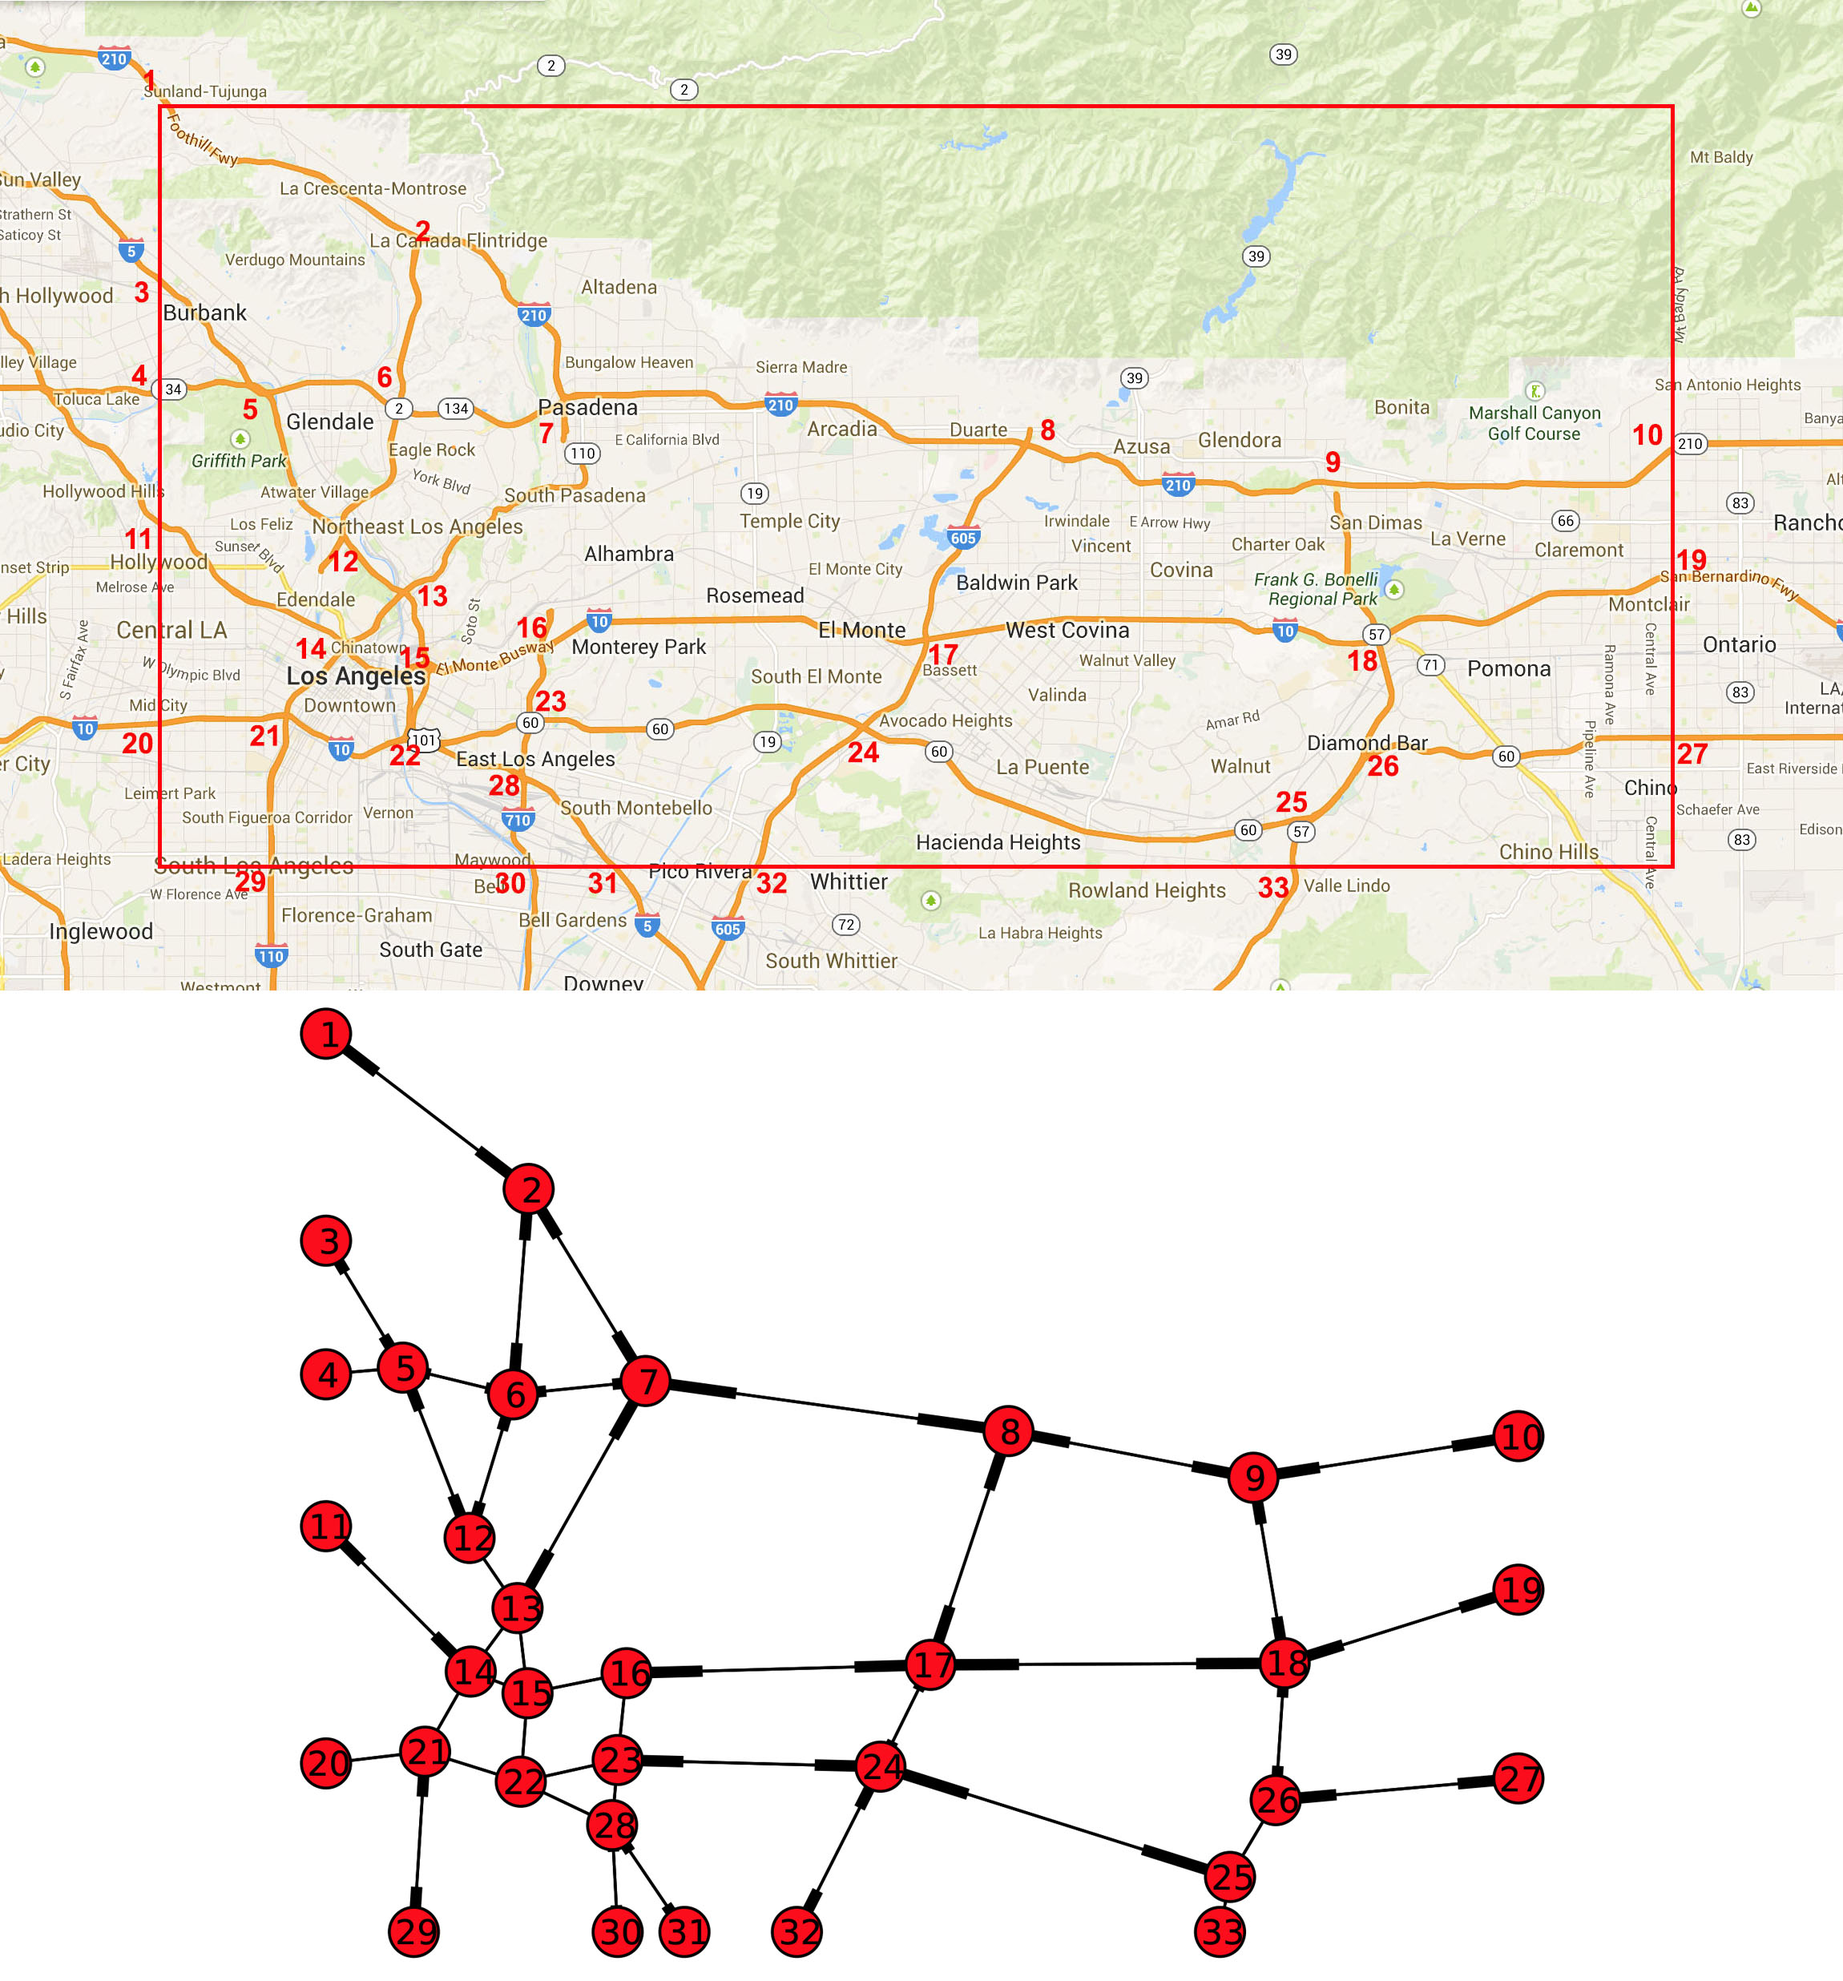
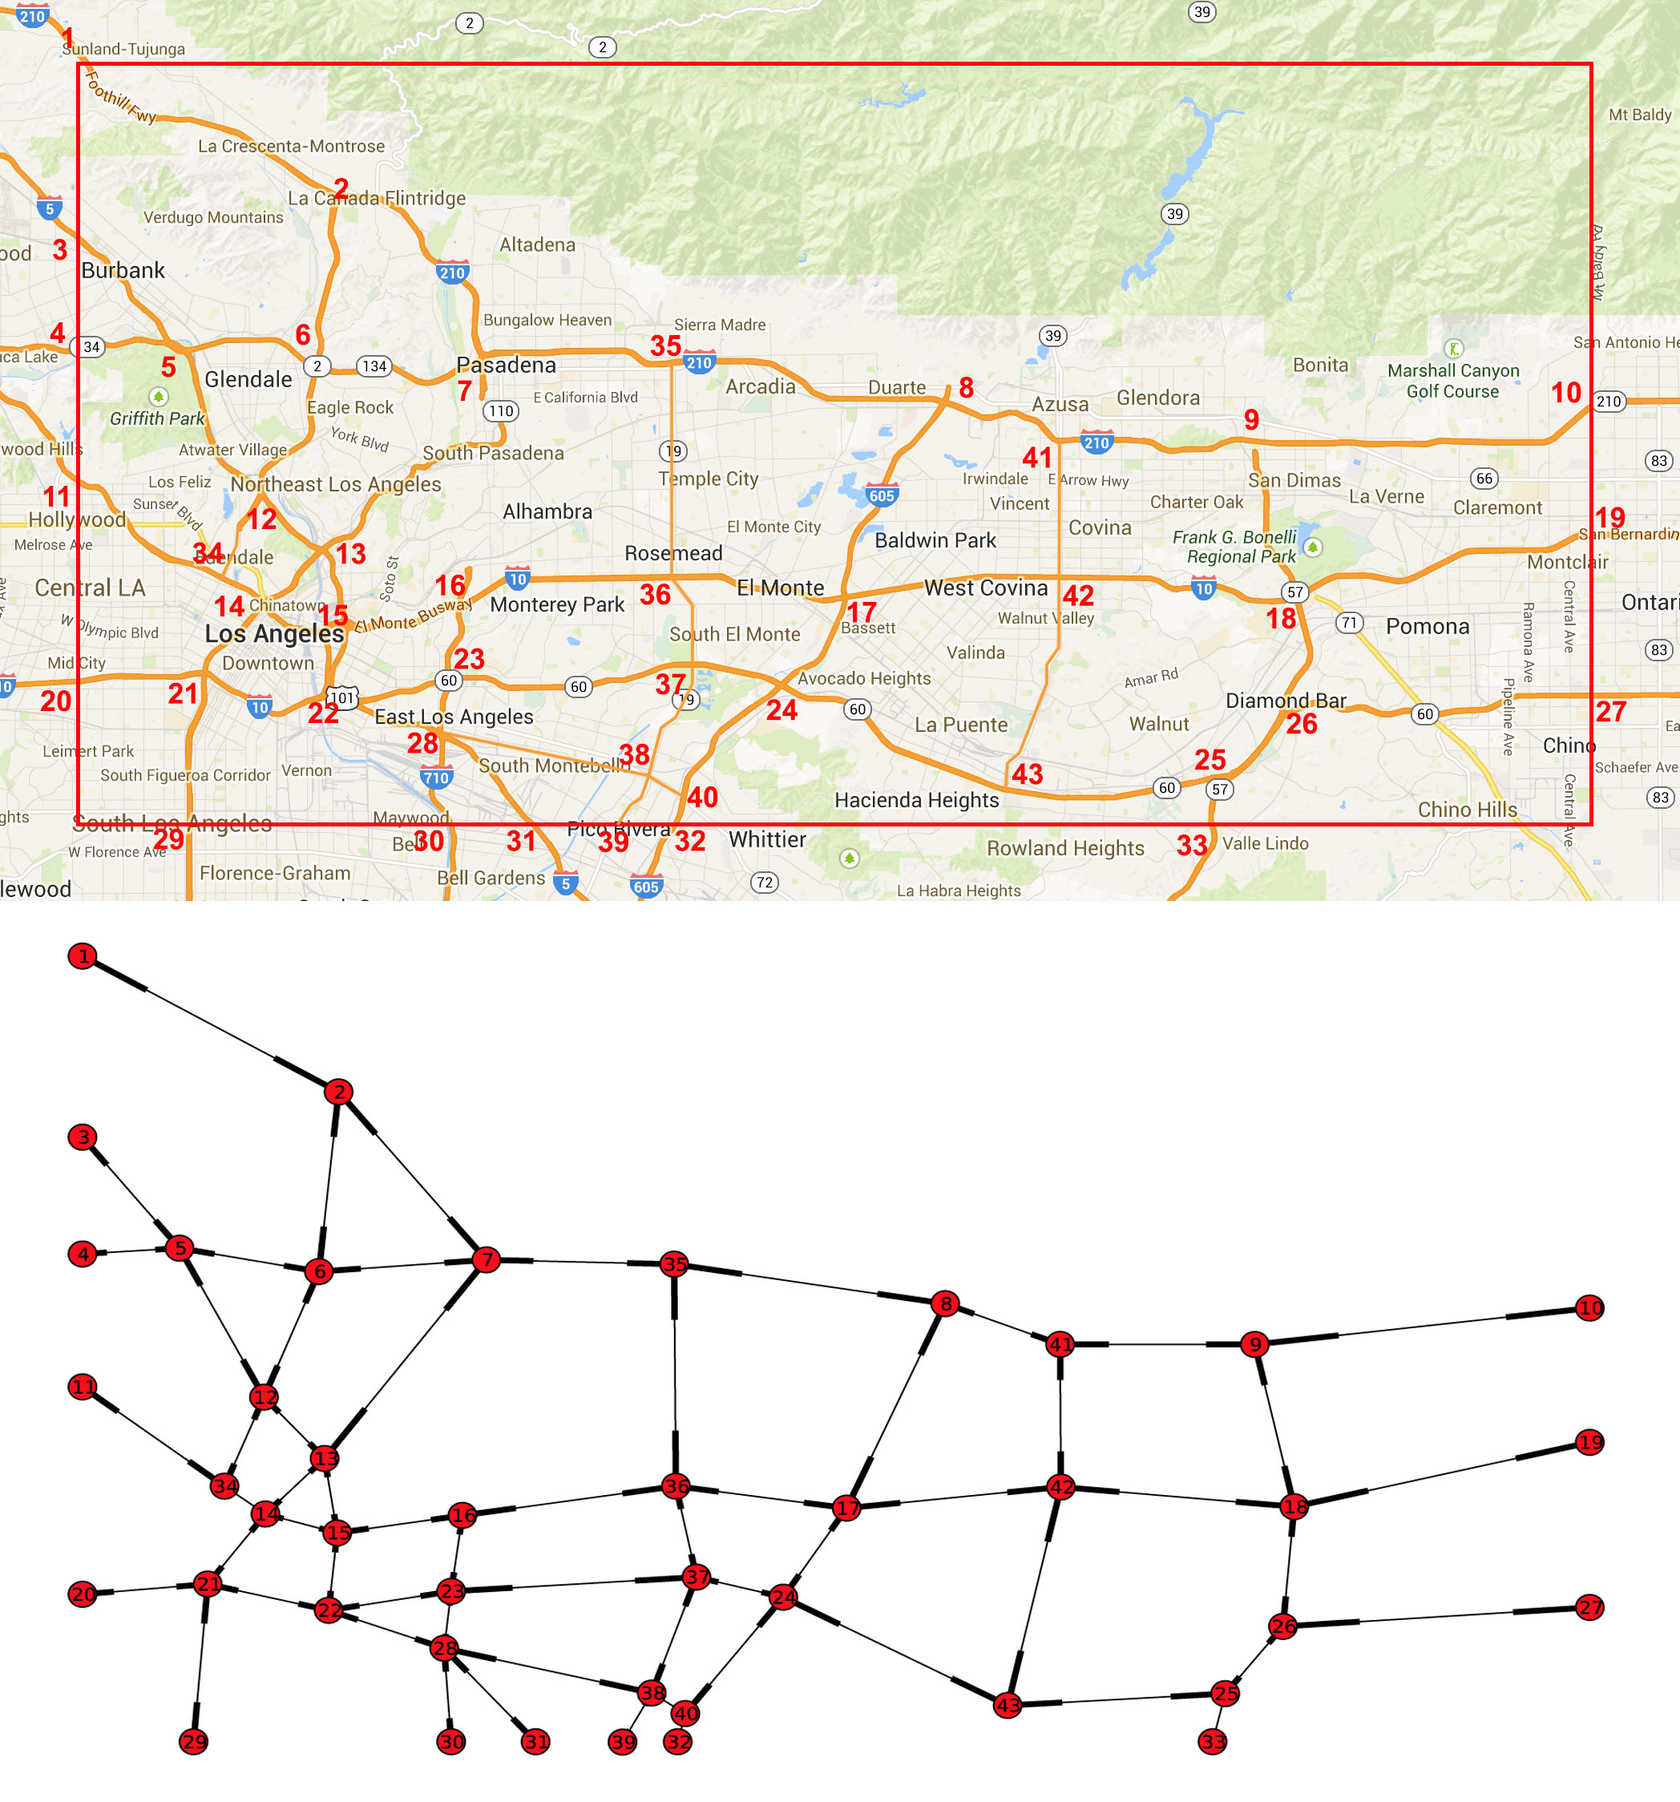
improved map of L.A. + more tests

diff --git a/test_inverse_opt.py b/test_inverse_opt.py
@@ -30,28 +30,26 @@ def test1(missing):
     
     if not missing:
         
-        theta = invopt.solver([graph1, graph2], [linkflows1, linkflows2], degree)
+        theta, l_lkflows = invopt.solver([graph1, graph2], [linkflows1, linkflows2], degree)
     
     else:
     
         indlinks_obs = [(2,1,1), (6,5,1), (3,2,1), (5,4,1), (2,5,1), (1,4,1), (3,6,1)]
         #indlinks_obs = []
         obs = [graph1.indlinks[id] for id in indlinks_obs]
-        theta = invopt.solver_mis([graph1, graph2], [linkflows1[obs], linkflows2[obs]], indlinks_obs, degree, max_iter=5)
+        theta, l_lkflows = invopt.solver_mis([graph1, graph2], [linkflows1[obs], linkflows2[obs]], indlinks_obs, degree, max_iter=5)
     
     print 'Estimated parameters'
     print theta
     xdata = np.linspace(0.0, 5.0, num=10)
     vals = [1+(theta.T * matrix(np.power(x,range(1,degree+1))))[0] for x in xdata]
     true_vals = [1+(theta_true.T * matrix(np.power(x,range(1,degree+1))))[0] for x in xdata]
-    #scale = sum(true_vals) / sum(vals)
-    scale = 1
+    scale = sum(true_vals) / sum(vals)
+    #scale = 1
     scaled_vals = [scale*val for val in vals]
     
-    x1 = ue.solver(small_grid(od_flows1, 'Polynomial', theta), update=False)
-    x2 = ue.solver(small_grid(od_flows2, 'Polynomial', theta), update=False)
-    print (linkflows1-x1).T*(linkflows1-x1)
-    print (linkflows2-x2).T*(linkflows2-x2)
+    print (l_lkflows[0]-linkflows1).T*(l_lkflows[0]-linkflows1)
+    print (l_lkflows[1]-linkflows2).T*(l_lkflows[1]-linkflows2)
     
     plt.plot(xdata, scaled_vals, 'r', label='estimate')
     plt.plot( xdata, true_vals, 'b', label='true')
@@ -62,7 +60,7 @@ def test1(missing):
     plt.show()
     
     
-def test2(max_obs, trials):
+def test2(max_obs, trials, max_iter):
     
     graph1 = small_grid(od_flows1, 'Polynomial', theta_true)
     graph2 = small_grid(od_flows2, 'Polynomial', theta_true)
@@ -84,11 +82,10 @@ def test2(max_obs, trials):
             mis = range(n)
             for j in obs: mis.remove(j)
             indlinks_obs = [indlinks2[i] for i in obs]
-            theta = invopt.solver_mis([graph1, graph2], [linkflows1[matrix(obs)], linkflows2[matrix(obs)]], indlinks_obs, degree, max_iter=5)
-            x1 = ue.solver(small_grid(od_flows1, 'Polynomial', theta), update=False)
-            x2 = ue.solver(small_grid(od_flows2, 'Polynomial', theta), update=False)
-            tmp1 = matrix([linkflows1[mis], linkflows2[mis]]) - matrix([x1[mis], x2[mis]])
-            tmp2.append(((tmp1.T*tmp1) / float(n-k))[0])
+            theta, l_lkflows = invopt.solver_mis([graph1, graph2], [linkflows1[matrix(obs)], linkflows2[matrix(obs)]], 
+                                                 indlinks_obs, degree, max_iter=max_iter)
+            tmp1 = matrix([linkflows1[mis], linkflows2[mis]]) - matrix([l_lkflows[0][mis], l_lkflows[1][mis]])
+            tmp2.append(max(abs(tmp1)) / float(n-k))
             
         error.append(np.mean(tmp2))
         error_var.append(np.std(tmp2))
@@ -102,7 +99,7 @@ def test2(max_obs, trials):
     plt.show()
     
     
-def test3(missing):
+def test3(missing, max_iter):
     graph1, graph2, graph3 = los_angeles(theta_true, 'Polynomial', True)
     linkflows1 = ue.solver(graph1)
     linkflows2 = ue.solver(graph2)
@@ -111,10 +108,10 @@ def test3(missing):
     if not missing:
         theta = invopt.solver([graph1, graph2, graph3], [linkflows1, linkflows2, linkflows3], degree)
     else:
-        indlinks_obs = []
+        indlinks_obs = [(17,24,1), (16,23,1)]
         obs = [graph1.indlinks[id] for id in indlinks_obs]
-        theta = invopt.solver_mis([graph1, graph2, graph3], [linkflows1[obs], linkflows2[obs], linkflows3[obs]], 
-                                  indlinks_obs, degree, max_iter=5)
+        theta, l_lkflows = invopt.solver_mis([graph1, graph2, graph3], [linkflows1[obs], linkflows2[obs], linkflows3[obs]], 
+                                  indlinks_obs, degree, max_iter=max_iter)
     
     print 'Estimated parameters'
     print theta
@@ -122,13 +119,18 @@ def test3(missing):
     vals = [1+(theta.T * matrix(np.power(x,range(1,degree+1))))[0] for x in xdata]
     true_vals = [1+(theta_true.T * matrix(np.power(x,range(1,degree+1))))[0] for x in xdata]
     
-    graph1, graph2, graph3 = los_angeles(theta, 'Polynomial', True)
-    x1 = ue.solver(graph1, update=False)
-    x2 = ue.solver(graph2, update=False)
-    x3 = ue.solver(graph3, update=False)
-    print (linkflows1-x1).T*(linkflows1-x1)
-    print (linkflows2-x2).T*(linkflows2-x2)
-    print (linkflows3-x3).T*(linkflows3-x3)
+    n = graph1.numlinks
+    e1 = linkflows1-l_lkflows[0]
+    e2 = linkflows2-l_lkflows[1]
+    e3 = linkflows3-l_lkflows[2]
+    print max(e1)
+    print max(e2)
+    print max(e3)
+    #reverse = {v:id for id,v in graph1.indlinks.items()}
+    #print [(reverse[i], x1[i], linkflows1[i]) for i in range(n) if abs(e1[i]) > 1e-1]
+    #print [(reverse[i], x2[i], linkflows2[i]) for i in range(n) if abs(e2[i]) > 1e-1]
+    #print [(reverse[i], x3[i], linkflows3[i]) for i in range(n) if abs(e3[i]) > 1e-1]
+    
     
     plt.plot(xdata, vals, 'r', label='estimate')
     plt.plot( xdata, true_vals, 'b', label='true')
@@ -141,8 +143,8 @@ def test3(missing):
     
 def main():
     #test1(True)
-    #test2(7, 50)
-    test3(True)
+    #test2(7, 20, 3)
+    test3(True, 7)
     
     
 if __name__ == '__main__':

diff --git a/lat_long_matrix.m b/lat_long_matrix.m
@@ -37,7 +37,17 @@ nodes = [[2.607, 0.930];
     [5.813, 7.512];
     [6.547, 7.512];
     [7.783, 7.512];
-    [12.434, 7.512]];
+    [12.434, 7.512];
+    [3.842, 5.371];
+    [7.752, 3.511];
+    [7.767, 5.371];
+    [7.946, 6.133];
+    [7.557, 7.104];
+    [7.303, 7.515];
+    [7.849, 7.276];
+    [11.108, 4.183];
+    [11.115, 5.378];
+    [10.652, 7.208]];
 
 C=[[34.244162,-118.317368];
     [34.208963,-118.219178];
@@ -79,10 +89,12 @@ nodes(:,2) = max(nodes(:,2)) - nodes(:,2);
 
 B = [nodes(:,2) nodes(:,1)];
 
-X1 = [ones(33,1) B(:,1)];
-X2 = [ones(33,1) B(:,2)];
-theta1 = (X1'*X1)\(X1'*C(:,1));
-theta2 = (X2'*X2)\(X2'*C(:,2));
+X1 = [ones(43,1) B(:,1)];
+X2 = [ones(43,1) B(:,2)];
+Y1 = X1(1:33,:);
+Y2 = X2(1:33,:);
+theta1 = (Y1'*Y1)\(Y1'*C(1:33,1));
+theta2 = (Y2'*Y2)\(Y2'*C(1:33,2));
 
 D = [X1*theta1, X2*theta2];
 
@@ -93,22 +105,28 @@ links = [[1,2, 1, 6.0, 1/8.5];
     [5,6, 1, 3.0, 1/10.5];
     [2,6, 1, 4.0, 1/10.5];
     [6,7, 1, 5.0, 1/10.5];
-    [7,8, 1, 11.0, 1/11];
-    [8,9, 1, 8.0, 1/10.5];
+    [7,35, 1, 5.0, 1/11];
+    [35,8, 1, 7.0, 1/11];
+    [8,41, 1, 3.0, 1/10.5];
+    [41,9, 1, 5.0, 1/10.5];
     [9,10, 1, 7.0, 1/10];
     [5,12, 1, 5.0, 1/9];
     [6,12, 1, 4.0, 1/9];
-    [12,13, 1, 2.5, 1/8.5];
+    [12,13, 1, 3.0, 1/8.5];
+    [12,34, 1, 5.0, 1/5];
     [7,13, 1, 10.0, 1/6.5];
     [13,14, 1, 3.0, 1/9];
     [13,15, 1, 3.0, 1/8.5];
     [8,17, 1, 5.0, 1/8.5];
     [9,18, 1, 4.0, 1/9];
-    [11,14, 1, 7.0, 1/8.5];
+    [11,34, 1, 5.0, 1/8.5];
+    [34,14, 1, 2.0, 1/8.5];
     [14,15, 1, 3.0, 1/8];
     [15,16, 1, 4.0, 1/12];
-    [16,17, 1, 9.0, 1/9];
-    [17,18, 1, 11.0, 1/9];
+    [16,36, 1, 5.0, 1/9];
+    [36,17, 1, 4.0, 1/9];
+    [17,42, 1, 5.0, 1/9];
+    [42,18, 1, 6.0, 1/9];
     [18,19, 1, 6.0, 1/10.5];
     [14,21, 1, 3.0, 1/8];
     [15,22, 1, 3.0, 1/17];
@@ -118,8 +136,10 @@ links = [[1,2, 1, 6.0, 1/8.5];
     [20,21, 1, 3.0, 1/8.5];
     [21,22, 1, 4.0, 1/10];
     [22,23, 1, 3.0, 1/10.5];
-    [23,24, 1, 8.0, 1/10];
-    [24,25, 1, 11.0, 1/11];
+    [23,37, 1, 5.0, 1/10];
+    [37,24, 1, 3.0, 1/10]
+    [24,43, 1, 6.0, 1/11];
+    [43,25, 1, 5.0, 1/11];
     [25,26, 1, 2.0, 1/12];
     [26,27, 1, 7.0, 1/10.5];
     [21,29, 1, 5.0, 1/9];
@@ -127,8 +147,17 @@ links = [[1,2, 1, 6.0, 1/8.5];
     [23,28, 1, 1.5, 1/8.5];
     [28,30, 1, 2.0, 1/11];
     [28,31, 1, 3.0, 1/8.5];
-    [24,32, 1, 4.5, 1/10.5];
-    [25,33, 1, 2.0, 1/12]];
+    [24,40, 1, 3.0, 1/10.5];
+    [40,32, 1, 1.5, 1/10.5];
+    [25,33, 1, 2.0, 1/12];
+    [35,36, 1, 9.0, 1/5];
+    [36,37, 1, 3.0, 1/7];
+    [37,38, 1, 4.0, 1/5];
+    [38,39, 1, 2.0, 1/5];
+    [38,40, 1, 2.0, 1/5];
+    [38,28, 1, 12.0, 1/5];
+    [41,42, 1, 8.0, 1/7];
+    [42,43, 1, 10.0, 1/7]];
 %{
 ODs = [[4, 22, 5.0];
     [5, 22, 5.0];
@@ -154,24 +183,30 @@ ODs = [[4, 22, 5.0];
     [31, 3, 5.0];
     [33, 22, 2.0]];
 %}
+ 
+dest = 14;
     
-ODs = [[4, 22, 5.0];
-    [5, 22, 5.0];
-    [6, 22, 5.0];
-    [7, 22, 5.0];
-    [8, 22, 5.0];
-    [9, 22, 4.0];
-    [11, 22, 10.0];
-    [17, 22, 5.0];
-    [18, 22, 4.0];
-    [20, 22, 10.0];
-    [24, 22, 5.0];
-    [25, 22, 2.0];
-    [26, 22, 2.0];
-    [29, 22, 10.0];
-    [30, 22, 10.0];
-    [31, 22, 10.0];
-    [33, 22, 2.0]];
+ODs = [[2, dest, 6.0]
+    [4, dest, 5.0];
+    [5, dest, 5.0];
+    [6, dest, 2.0];
+    [7, dest, 2.0];
+    [8, dest, 4.0];
+    [9, dest, 3.0];
+    [10, dest, 2.0];
+    [11, dest, 10.0];
+    [17, dest, 4.0];
+    [18, dest, 3.0];
+    [19, dest, 2.0]
+    [20, dest, 10.0];
+    [24, dest, 4.0];
+    [25, dest, 2.0];
+    [26, dest, 2.0];
+    [27, dest, 2.0]
+    [29, dest, 10.0];
+    [30, dest, 10.0];
+    [31, dest, 10.0];
+    [33, dest, 2.0]];
 
 ODs1 = [ODs(:,1:2), 0.5*ODs(:,3)];
 ODs2 = ODs;

diff --git a/inverse_opt.py b/inverse_opt.py
@@ -141,7 +141,7 @@ def solver_mis(list_graphs, list_linkflows_obs, indlinks_obs, degree, alpha=None
     """
     N, graph = len(list_graphs), list_graphs[0]
     n = graph.numlinks
-    theta_init = matrix(np.ones(degree))/degree
+    theta_init = matrix(np.ones(degree))
     beqs = []
     for j in range(N):
         tmp1, tmp2 = ue.constraints(list_graphs[j], list_linkflows_obs[j], indlinks_obs)
@@ -157,10 +157,12 @@ def solver_mis(list_graphs, list_linkflows_obs, indlinks_obs, degree, alpha=None
     
     for k in range(max_iter):
         
-        for id, link in graph.links.items():
-            i = graph.indlinks[id]
-            link.delayfunc.coef = [ffdelays[i]*a*b for a,b in zip(theta, np.power(slopes[i], range(1,degree+1)))]
-        list_linkflows = [ue.solver(graph, False, Aeq, beqs[j], list_linkflows_obs[j], indlinks_obs) for j in range(N)]
-        theta = solver(list_graphs, list_linkflows, degree, alpha)
+        if k%2 == 0:
+            for id, link in graph.links.items():
+                i = graph.indlinks[id]
+                link.delayfunc.coef = [ffdelays[i]*a*b for a,b in zip(theta, np.power(slopes[i], range(1,degree+1)))]
+            list_linkflows = [ue.solver(graph, False, Aeq, beqs[j], list_linkflows_obs[j], indlinks_obs) for j in range(N)]
+        else:
+            theta = solver(list_graphs, list_linkflows, degree, alpha)
         
-    return theta
+    return theta, list_linkflows

diff --git a/test_draw.py b/test_draw.py
@@ -23,8 +23,8 @@ def draw_los_angeles():
 
 
 def main():
-    small_graph()
-    #draw_los_angeles()
+    #small_graph()
+    draw_los_angeles()
 
 if __name__ == '__main__':
     main()
